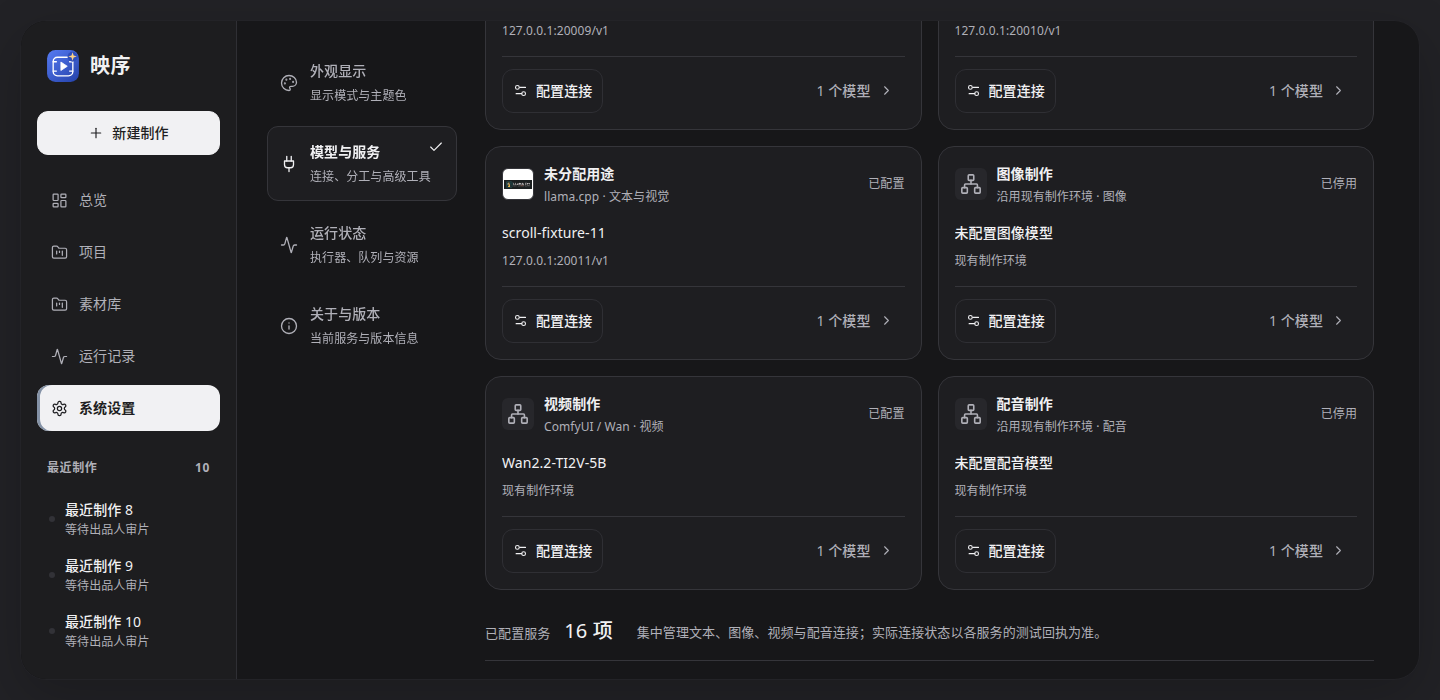
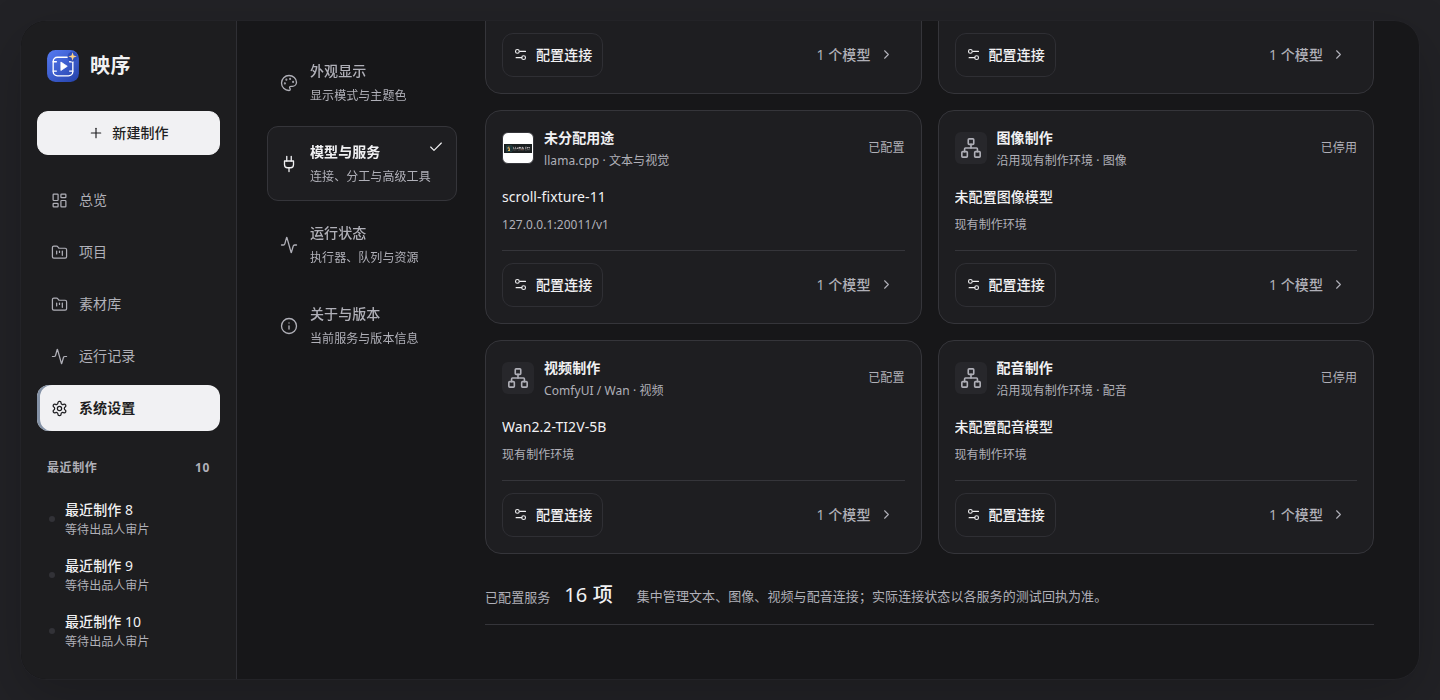
fix(ui): preserve workspace bottom spacing in the fixed frame
Use intrinsic workspace height in the desktop flex scroller so final controls retain page padding. Verify content and workspace bottom edges and keep the footer inside the viewport. Refs #68 (0.1.6).

diff --git a/ui/factory/src/styles/studio-design.css b/ui/factory/src/styles/studio-design.css
@@ -372,6 +372,7 @@ tbody tr:hover {
   }
   #workspace {
     min-height: 100%;
+    flex: 1 0 auto;
   }
 }
 @media (max-width: 1023px) {

diff --git a/docs/UI_DESIGN.md b/docs/UI_DESIGN.md
@@ -89,7 +89,7 @@
 
 ## 桌面外框与滚动
 
-桌面外框固定在视口的上下边距内，侧栏与其共享顶部、底部和圆角边界，主内容在右侧独立滚动。长导航列表继续单独滚动；路由切换回到主内容顶部。弹窗锁定主内容滚动，关闭后恢复原位置，手机继续采用页面滚动和抽屉导航。短页面及改变窗口高度也保持外框完整。
+桌面外框固定在视口的上下边距内，侧栏与其共享顶部、底部和圆角边界，主内容在右侧独立滚动。长导航列表继续单独滚动；路由切换回到主内容顶部。弹窗锁定主内容滚动，关闭后恢复原位置，手机继续采用页面滚动和抽屉导航。短页面及改变窗口高度也保持外框完整；主内容按自然高度排列，底部操作保留页面留白，避免贴住外框。
 
 布局参考 [Mantine AppShell](https://mantine.dev/core/app-shell/) 与 [shadcn Sidebar](https://ui.shadcn.com/docs/components/sidebar) 对固定布局和滚动内容的分工，没有引入这些库。[顶部与底部截图](images/navigation-selection/README.md)配合外框几何、长导航、路由复位、弹窗恢复和窗口高度变化检查。
 
